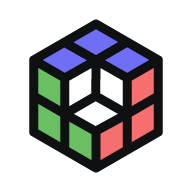
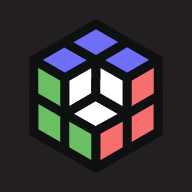
More tweaks and such, prepare for optimization.

diff --git a/home.html b/home.html
@@ -8,7 +8,6 @@
     content="rubisco, thedocruby, project, portfolio, art, 3d, developer, artist, tech, technical, programming, coding, code, doc, doctor, game, video game, game dev, game developer, tech artist, technical artist, tech art, technical art, gameplay, arcadia, atlantia, resounding, minecraft, sound physics, minecraft mod, game mod, minecraft java, iris, iris shaders, shaders mod, minecraft shaders, modded minecraft, catch game, vr catch, catch 22, catch &amp;apos;22">
   <meta name="description" content="The website of Dr. Rubisco, a passionate developer and artist">
   <title>Home - Dr. Rubisco</title>
-  <link rel="canonical" href="https://thedocruby.dev">
   <link rel="stylesheet" href="nicepage.css" media="screen">
   <link rel="stylesheet" href="home.css" media="screen">
   <script class="u-script" type="text/javascript" src="jquery.js" "="" defer=""></script>
@@ -25,6 +24,9 @@
     gtag('js', new Date());
     gtag('config', 'G-E6FYBEYX4K');
   </script>
+  <link rel="canonical" href="https://thedocruby.dev/index.html">
+  <link rel="manifest" href="/manifest.json">
+  <link rel="apple-touch-icon" href="images/apple-touch-icon.png">
   <link rel="icon" href="images/favicon.ico">
   <link id="u-theme-google-font" rel="stylesheet"
     href="https://fonts.googleapis.com/css?family=Roboto:100,100i,300,300i,400,400i,500,500i,700,700i,900,900i|Open+Sans:300,300i,400,400i,500,500i,600,600i,700,700i,800,800i">
@@ -32,7 +34,6 @@
   <script type="application/ld+json">{
         "@context": "http://schema.org",
         "@type": "Person",
-        "logo": "images/dr-rubisco-banner-transparent.png",
         "name": "Mason Pysell",
         "url": "https://thedocruby.dev",
         "alternateName": [
@@ -100,7 +101,7 @@
         ],
         "telephone": "1-864-939-9751"
     }</script>
-  <meta name="theme-color" content="#478ac9">
+  <meta name="theme-color" content="#231f20">
   <meta property="og:type" content="website">
 </head>
 

diff --git a/index.html b/index.html
@@ -8,7 +8,6 @@
     content="rubisco, thedocruby, project, portfolio, art, 3d, developer, artist, tech, technical, programming, coding, code, doc, doctor, game, video game, game dev, game developer, tech artist, technical artist, tech art, technical art, gameplay, arcadia, atlantia, resounding, minecraft, sound physics, minecraft mod, game mod, minecraft java, iris, iris shaders, shaders mod, minecraft shaders, modded minecraft, catch game, vr catch, catch 22, catch &amp;apos;22">
   <meta name="description" content="The website of Dr. Rubisco, a passionate developer and artist">
   <title>Home - Dr. Rubisco</title>
-  <link rel="canonical" href="https://thedocruby.dev">
   <link rel="stylesheet" href="nicepage.css" media="screen">
   <link rel="stylesheet" href="home.css" media="screen">
   <script class="u-script" type="text/javascript" src="jquery.js" "="" defer=""></script>
@@ -25,6 +24,9 @@
     gtag('js', new Date());
     gtag('config', 'G-E6FYBEYX4K');
   </script>
+  <link rel="canonical" href="https://thedocruby.dev/index.html">
+  <link rel="manifest" href="/manifest.json">
+  <link rel="apple-touch-icon" href="images/apple-touch-icon.png">
   <link rel="icon" href="images/favicon.ico">
   <link id="u-theme-google-font" rel="stylesheet"
     href="https://fonts.googleapis.com/css?family=Roboto:100,100i,300,300i,400,400i,500,500i,700,700i,900,900i|Open+Sans:300,300i,400,400i,500,500i,600,600i,700,700i,800,800i">
@@ -32,7 +34,6 @@
   <script type="application/ld+json">{
         "@context": "http://schema.org",
         "@type": "Person",
-        "logo": "images/dr-rubisco-banner-transparent.png",
         "name": "Mason Pysell",
         "url": "https://thedocruby.dev",
         "alternateName": [
@@ -100,7 +101,7 @@
         ],
         "telephone": "1-864-939-9751"
     }</script>
-  <meta name="theme-color" content="#478ac9">
+  <meta name="theme-color" content="#231f20">
   <meta property="og:type" content="website">
 </head>
 

diff --git a/about.html b/about.html
@@ -8,7 +8,6 @@
     content="rubisco, thedocruby, doc, doctor, dr rubisco, dr_rubisco, art, artist, dev, developer, development, tech, technical, tech art, technical art, tech artist, technical artist, game, gamer, gaming, game dev, game developer, game development, gameplay, game art, game artist, 3d art, 3d artist, 3d, 3d model, 3d modeling, render, rendering, graphics, computer graphics, 3d graphics, lighting, 3d lighting, vr, vr game, vr gamer, vr gaming, vr dev, vr developer, vr development, virtual reality">
   <meta name="description" content="About Dr. Rubisco, a passionate developer and artist">
   <title>About - Dr. Rubisco</title>
-  <link rel="canonical" href="https://thedocruby.dev/about.html">
   <link rel="stylesheet" href="nicepage.css" media="screen">
   <link rel="stylesheet" href="about.css" media="screen">
   <script class="u-script" type="text/javascript" src="jquery.js" "="" defer=""></script>
@@ -25,6 +24,8 @@
     gtag('js', new Date());
     gtag('config', 'G-E6FYBEYX4K');
   </script>
+  <link rel="manifest" href="/manifest.json">
+  <link rel="apple-touch-icon" href="images/apple-touch-icon.png">
   <link rel="icon" href="images/favicon.ico">
   <link id="u-theme-google-font" rel="stylesheet"
     href="https://fonts.googleapis.com/css?family=Roboto:100,100i,300,300i,400,400i,500,500i,700,700i,900,900i|Open+Sans:300,300i,400,400i,500,500i,600,600i,700,700i,800,800i">
@@ -32,7 +33,6 @@
   <script type="application/ld+json">{
         "@context": "http://schema.org",
         "@type": "Person",
-        "logo": "images/dr-rubisco-banner-transparent.png",
         "name": "Mason Pysell",
         "url": "https://thedocruby.dev",
         "alternateName": [
@@ -100,7 +100,7 @@
         ],
         "telephone": "1-864-939-9751"
     }</script>
-  <meta name="theme-color" content="#478ac9">
+  <meta name="theme-color" content="#231f20">
   <meta property="og:type" content="website">
 </head>
 

diff --git a/contact.html b/contact.html
@@ -8,7 +8,6 @@
     content="rubisco, thedocruby, doc, doctor, dr rubisco, dr. rubisco, dr_rubisco, contact, social, email">
   <meta name="description" content="Contact Dr. Rubisco, a passionate developer and artist">
   <title>Contact - Dr. Rubisco</title>
-  <link rel="canonical" href="https://thedocruby.dev/contact.html">
   <link rel="stylesheet" href="nicepage.css" media="screen">
   <link rel="stylesheet" href="contact.css" media="screen">
   <script class="u-script" type="text/javascript" src="jquery.js" "="" defer=""></script>
@@ -38,6 +37,8 @@
       });
     }); 
   </script>
+  <link rel="manifest" href="/manifest.json">
+  <link rel="apple-touch-icon" href="images/apple-touch-icon.png">
   <link rel="icon" href="images/favicon.ico">
   <link id="u-theme-google-font" rel="stylesheet"
     href="https://fonts.googleapis.com/css?family=Roboto:100,100i,300,300i,400,400i,500,500i,700,700i,900,900i|Open+Sans:300,300i,400,400i,500,500i,600,600i,700,700i,800,800i">
@@ -45,7 +46,6 @@
   <script type="application/ld+json">{
         "@context": "http://schema.org",
         "@type": "Person",
-        "logo": "images/dr-rubisco-banner-transparent.png",
         "name": "Mason Pysell",
         "url": "https://thedocruby.dev",
         "alternateName": [
@@ -113,7 +113,7 @@
         ],
         "telephone": "1-864-939-9751"
     }</script>
-  <meta name="theme-color" content="#478ac9">
+  <meta name="theme-color" content="#231f20">
   <meta property="og:type" content="website">
 </head>
 
